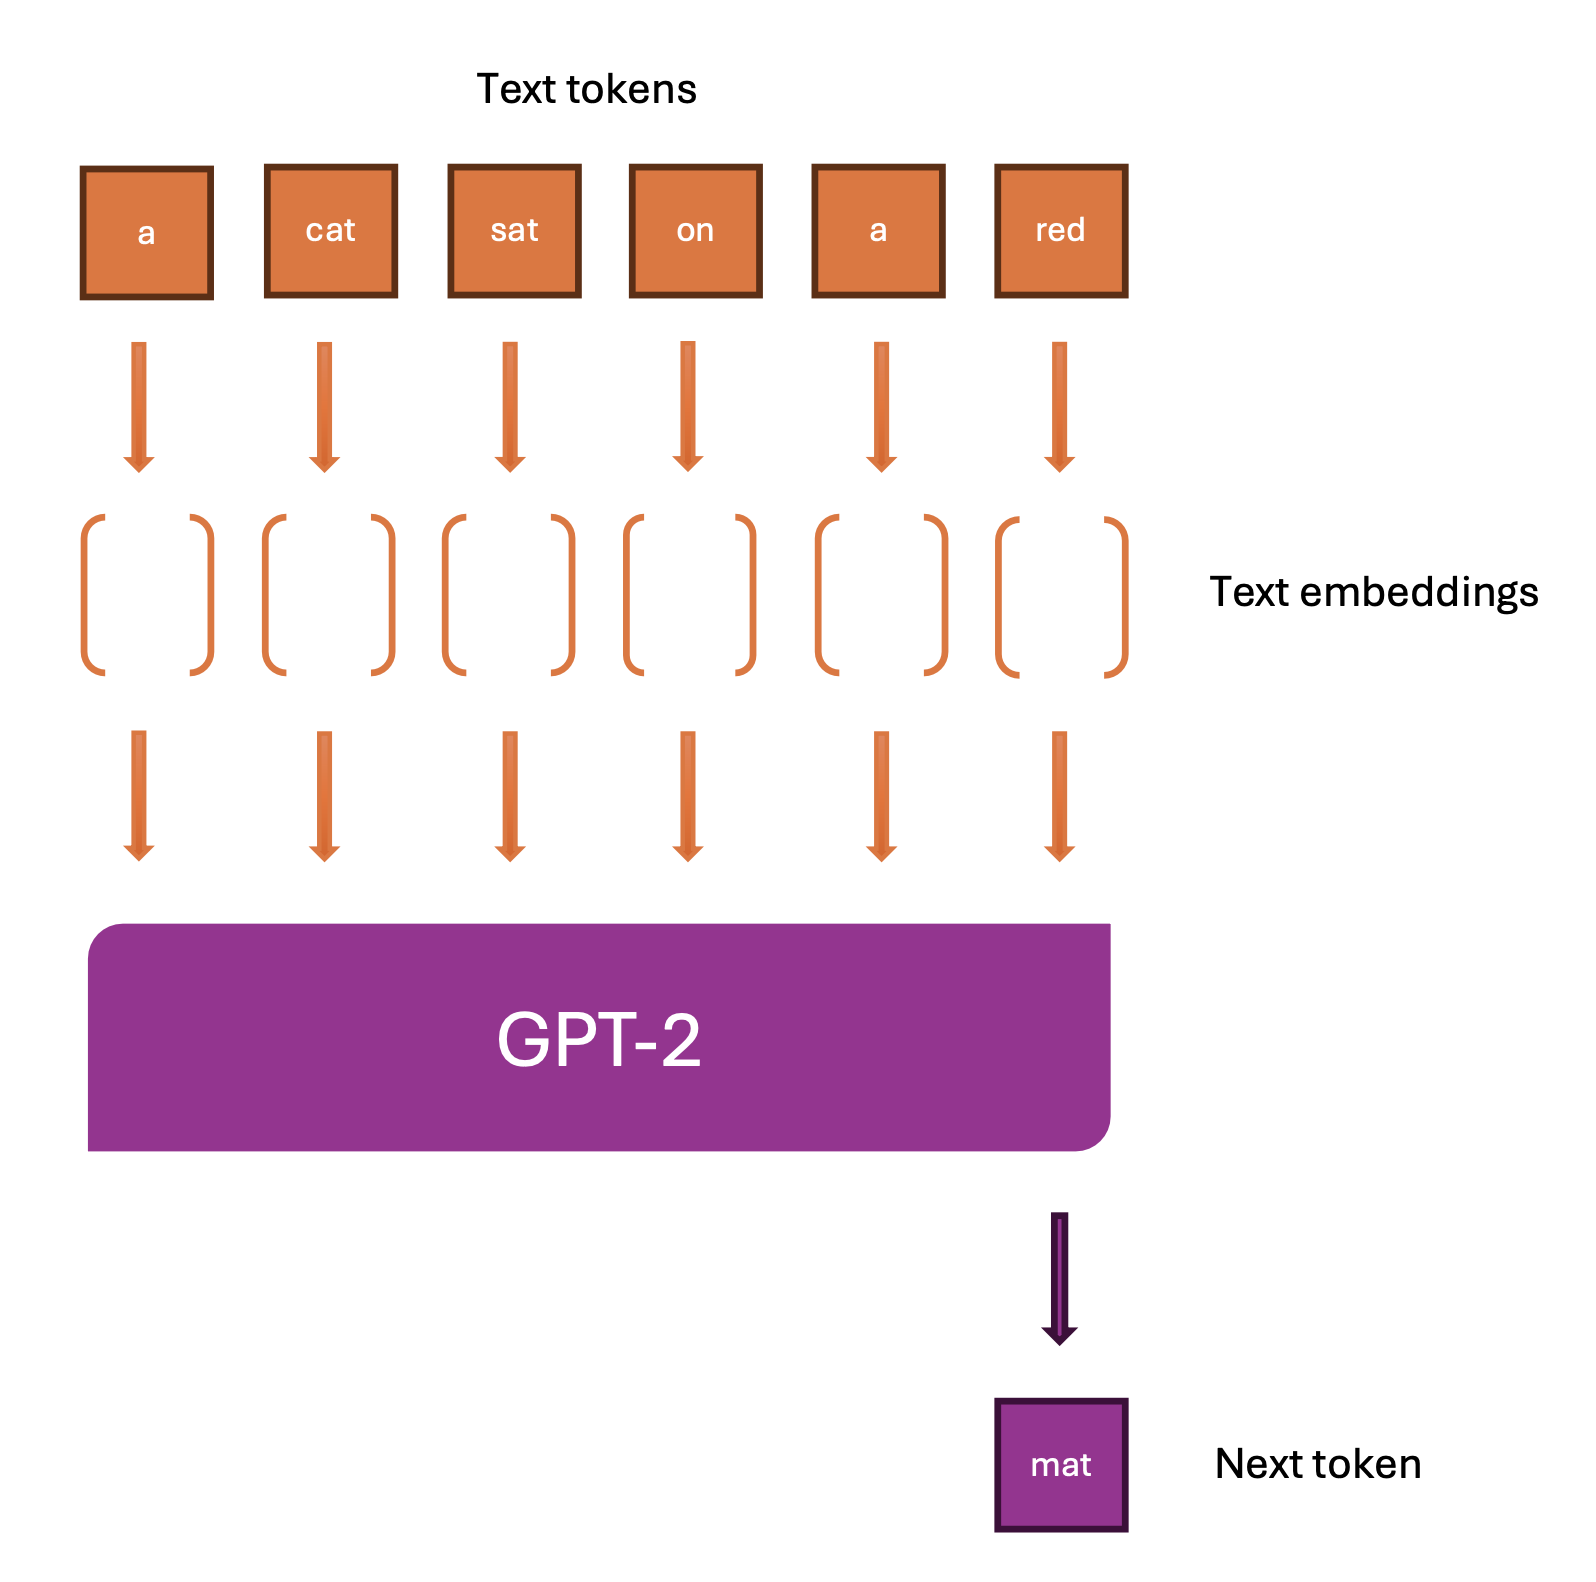
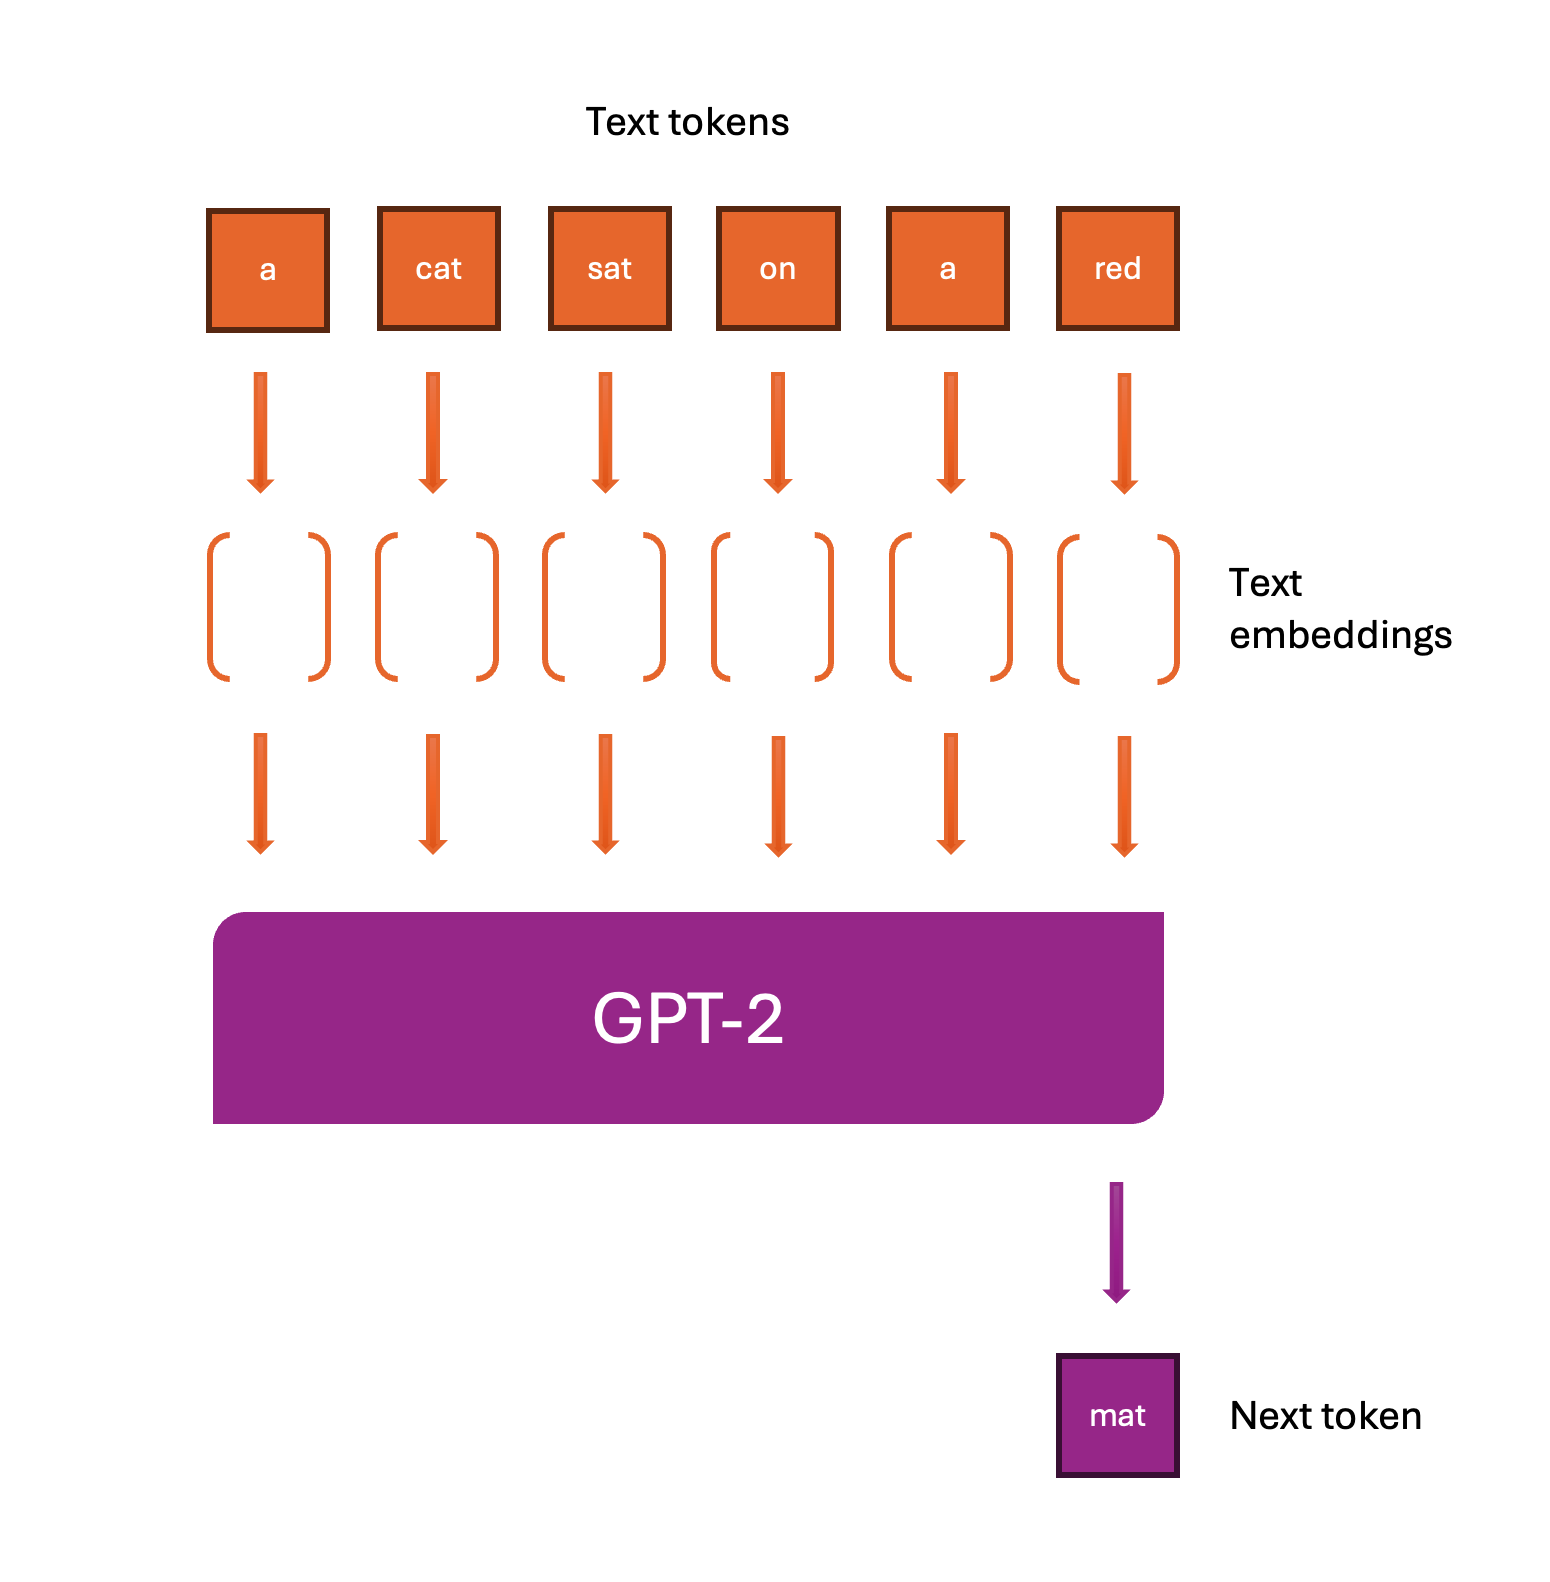
update readme to describe vision-language models

diff --git a/README.md b/README.md
@@ -2,13 +2,17 @@
 
 Learn how to build a vision-language model 
 
-GPT-2 Vision is a language model that has been augmented with CLIP to understand images. Given an image, it is able to generate text describing that image. The model is written from scratch in under 1000 lines of pure PyTorch
+GPT-2 Vision is a language model that has been augmented with CLIP to understand images. Given an image, it is able to generate text describing that image
 
+The model is an experiment in reproducing the training techniques rumored to be behind state-of-the-art multimodal models like GPT-4 Vision, but using much smaller models: GPT-2 small (124M) and CLIP ViT-B/32
 
-| ![Image 1](assets/desert.png) | ![Image 2](assets/computer.png) | ![Image 3](assets/ski.png)     |
-|-------------------------------|--------------------------------|--------------------------------|
-| ![Image 4](assets/pond.png)   | ![Image 5](assets/food.png)    | ![Image 6](assets/stadium.png) |
-| ![Image 7](assets/zoo.png)    | ![Image 8](assets/mall.png)  | ![Image 9](assets/car.png)     |
+The code is designed to be educational, with only 5 files and under 1000 lines of pure PyTorch
+
+| ![Image 1](assets/desert.png) | ![Image 2](assets/computer.png) |
+|-------------------------------|---------------------------------|
+| ![Image 3](assets/pond.png)   | ![Image 4](assets/food.png)     |
+| ![Image 5](assets/zoo.png)    | ![Image 6](assets/mall.png)     |
+| ![Image 7](assets/ski.png)    | ![Image 8](assets/stadium.png)  |
 
 *Captions generated by GPT-2 Vision on unseen images*
 
@@ -30,17 +34,23 @@ A cat sat on a red ___.
 
 A language model will likely predict "mat" instead of "lava" because the data it was trained on likely contains many examples of cats sitting on mats but few of cats sitting on lava
 
-###  Word embeddings
+<div align="center">
+ <img src="assets/gpt-architecture.png" width="500" />
+</div>
 
-To make these predictions, language models like GPT-2 first convert the prompt into word embeddings. These embeddings can be thought of as points in a high-dimensional space where similar words are near one another
+*A GPT-2 language model converting a sequence of text into word embeddings, then using these embeddings together to predict the next word*
+
+###  Text embeddings
+
+To make these predictions, language models like GPT-2 first convert the prompt into text or "word" embeddings. These embeddings can be thought of as points in a high-dimensional space where similar words are near one another
 
 Regions in this space represent semantic meaning -- word embeddings for animals might reside in a particular space, whereas embeddings for sporting equipment might reside in another
 
 ### Predicting the next word using embeddings
 
-To predict the next word, the model could naively find an embedding closest to all the prompt word embeddings. For example, given the sentence "The sun rises every ___," it might easily select "morning" because "sun rises" is unambiguously associated with "morning."
+To predict the next word, the model might naively find an embedding closest to the embeddings of all the words in the prompt. For example, given the sentence "The sun rises every ___," it might easily select "morning" because "sun" and "rises" are unambiguously associated with "morning" and would likely reside in a similar space
 
-However, this approach could fail for words with multiple meanings like "bat." 
+However, this approach could fail for words with multiple meanings like "bat" 
 
 Consider the following sentences:
 
@@ -51,25 +61,25 @@ Would the embedding space near "bat" represent the animal or sports equipment?
 
 ### Context-aware predictions
 
-To solve this, language models use the full context of the prompt to refine the embeddings, transforming them in a way that captures the complete meaning of the text. The next word is then sampled from a region in the space close to this context-aware representation
+To solve this, language models use the full context of the prompt to effectively combine the embeddings, capturing the complete meaning of the text. The next word is then sampled from a region in the space close to this context-aware representation
 
-In the first sentence, a language model might focus on "flew out," adjusting the embeddings to create a representation meaning "bat" as a flying animal. This refined embedding might be close to "cave" in the semantic space, so the model may predict "cave."
+In the first sentence, a language model might focus on "flew out," adjusting the embeddings to create a representation meaning "bat" as a flying animal. This refined embedding might be close to "cave" in the semantic space, so the model may predict "cave"
 
-In the second sentence, a model might focus on "player swung," adjusting the embeddings to represent "bat" as sports equipment, leading the model to predict "baseball."
+In the second sentence, a model might focus on "player swung," adjusting the embeddings to represent "bat" as sports equipment, leading the model to predict "baseball"
 
 In sum, **language models transform word embeddings in a way that captures the full meaning of the text, making it easier to accurately find the next word.**
 
-<div align="center">
- <img src="assets/gpt-architecture.png" width="500" />
-</div>
+### CLIP
 
-*A GPT-2 language model converting a sequence of text into word embeddings, then using these embeddings together to predict the next word*
+[OpenAI CLIP](https://openai.com/index/clip/) is a model that finds similarities between images and text by aligning them in a shared vision-language embedding space. For example, CLIP transforms images so that the embedding of a cat image is close to text embeddings of phrases about cats
 
 ### Vision language models
 
 <div align="center">
  <img src="assets/gpt-clip-architecture.png" width="800" />
 </div>
+
+*CLIP converts an image into a sequence of embeddings, which an MLP transforms into GPT-2's language embedding space. GPT-2 uses these image embeddings, along with any initial text, as context to generate text relevant to the image*
 
 ## Install
 
